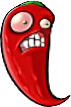
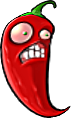
+Added Screendoor Zombie +Fixed Jalapeno missing stem +Changed Lawnmowers to only spawn offscreen

diff --git a/src/Zombies/Zombie.cpp b/src/Zombies/Zombie.cpp
@@ -110,6 +110,26 @@ void Zombie::createZombie(float x, float y, Type type, int row) {
     zombie->reAnimator.child->playAnimation("main");
     //zombie->reAnimator.animSpeedMulti = 1.8f;
     break;
+  case Zombie::Type::Screendoor:
+    zombie = new Zombie({ x, y }, ReAnimator::getDefinition(REANIM_ZOMBIE_BASIC), row);
+    zombie->reAnimator.setTrackVisibility("anim_cone", false);
+    zombie->reAnimator.setTrackVisibility("anim_bucket", false);
+    //zombie->reAnimator.setTrackVisibility("anim_screendoor", false);
+    //zombie->reAnimator.setTrackVisibility("Zombie_innerarm_screendoor_hand", false);
+    //zombie->reAnimator.setTrackVisibility("Zombie_innerarm_screendoor", false);
+    //zombie->reAnimator.setTrackVisibility("Zombie_outerarm_screendoor", false);
+    zombie->reAnimator.setTrackVisibility("Zombie_duckytube", false);
+    zombie->reAnimator.setTrackVisibility("Zombie_flaghand", false);
+    zombie->reAnimator.setTrackVisibility("Zombie_mustache", false);
+    zombie->reAnimator.setTrackVisibility("anim_tongue", false);
+    zombie->reAnimator.setTrackVisibility("Zombie_outerarm_upper", false);
+    zombie->reAnimator.setTrackVisibility("Zombie_outerarm_lower", false);
+    zombie->reAnimator.setTrackVisibility("Zombie_outerarm_hand", false);
+    zombie->reAnimator.setTrackVisibility("anim_innerarm3", false);
+    zombie->reAnimator.setTrackVisibility("anim_innerarm2", false);
+    zombie->reAnimator.setTrackVisibility("anim_innerarm1", false);
+    zombie->reAnimator.playAnimation("anim_walk", LoopType::Loop);
+    break;
   }
   
   zombie->reAnimator.animSpeedMulti = speeds[type];
@@ -211,7 +231,7 @@ bool Zombie::update(float dt) {
 //effects: 0 -> normal, 1 -> freeze, 2 -> explosion/fire , 3 -> mowed
 void Zombie::takeDamage(float damage, int effect) { // todo: change effect into enum
     health -= damage;
-    if (effect == 1) {
+    if (effect == 1 && !(type == Zombie::Type::Screendoor && health >= healths[type] * 0.2f)) {
       freezeTimer = FreezeTimer;
     }
     if(health <= 0) {
@@ -234,6 +254,9 @@ void Zombie::takeDamage(float damage, int effect) { // todo: change effect into 
       else if (type == Zombie::Type::Buckethead)
         reAnimator.trackInstances[41].imageOverride
         = ReAnimator::getDefinition(REANIM_ZOMBIE_BASIC)->textureMap["IMAGE_REANIM_ZOMBIE_BUCKET2"];
+      else if (type == Zombie::Type::Screendoor)
+        reAnimator.trackInstances[32].imageOverride
+        = ReAnimator::getDefinition(REANIM_ZOMBIE_BASIC)->textureMap["IMAGE_REANIM_ZOMBIE_SCREENDOOR2"];
     }
     else if (health < healths[type]*0.5f && health >= healths[type]*0.2f) {
       if (type == Zombie::Type::Conehead)
@@ -242,6 +265,9 @@ void Zombie::takeDamage(float damage, int effect) { // todo: change effect into 
       else if (type == Zombie::Type::Buckethead)
         reAnimator.trackInstances[41].imageOverride
         = ReAnimator::getDefinition(REANIM_ZOMBIE_BASIC)->textureMap["IMAGE_REANIM_ZOMBIE_BUCKET3"];
+      else if (type == Zombie::Type::Screendoor)
+        reAnimator.trackInstances[32].imageOverride
+        = ReAnimator::getDefinition(REANIM_ZOMBIE_BASIC)->textureMap["IMAGE_REANIM_ZOMBIE_SCREENDOOR3"];
     }
     else if (health < healths[type]*0.2f) {
       if (type == Zombie::Type::Conehead)
@@ -250,6 +276,18 @@ void Zombie::takeDamage(float damage, int effect) { // todo: change effect into 
         reAnimator.setTrackVisibility("anim_bucket", false);
       else if (type == Zombie::Type::Flag)
         reAnimator.child->stopAnimation("main"); // temporary
+      else if (type == Zombie::Type::Screendoor) {
+        reAnimator.setTrackVisibility("Zombie_outerarm_upper", true);
+        reAnimator.setTrackVisibility("Zombie_outerarm_lower", true);
+        reAnimator.setTrackVisibility("Zombie_outerarm_hand", true);
+        reAnimator.setTrackVisibility("anim_innerarm3", true);
+        reAnimator.setTrackVisibility("anim_innerarm2", true);
+        reAnimator.setTrackVisibility("anim_innerarm1", true);
+        reAnimator.setTrackVisibility("anim_screendoor", false);
+        reAnimator.setTrackVisibility("Zombie_innerarm_screendoor_hand", false);
+        reAnimator.setTrackVisibility("Zombie_innerarm_screendoor", false);
+        reAnimator.setTrackVisibility("Zombie_outerarm_screendoor", false);
+      }
     }
 
     //if(damage) freezeTimer = FreezeTimer;

diff --git a/src/ReAnimation/ReAnimation.cpp b/src/ReAnimation/ReAnimation.cpp
@@ -937,6 +937,8 @@ void initReAnimDefs() {
       { "IMAGE_REANIM_ZOMBIE_TONGUE",                   "assets/Zombies/Basic/Zombie_tongue.png" },
       { "IMAGE_REANIM_ZOMBIE_MUSTACHE1",                "assets/Zombies/Basic/Zombie_mustache1.png" },
       { "IMAGE_REANIM_ZOMBIE_SCREENDOOR1",              "assets/Zombies/Basic/Zombie_screendoor1.png" },
+      { "IMAGE_REANIM_ZOMBIE_SCREENDOOR2",              "assets/Zombies/Basic/Zombie_screendoor2.png" },
+      { "IMAGE_REANIM_ZOMBIE_SCREENDOOR3",              "assets/Zombies/Basic/Zombie_screendoor3.png" },
       { "IMAGE_REANIM_ZOMBIE_INNERARM_SCREENDOOR_HAND", "assets/Zombies/Basic/Zombie_innerarm_screendoor_hand.png" },
       { "IMAGE_REANIM_ZOMBIE_OUTERARM_SCREENDOOR",      "assets/Zombies/Basic/Zombie_outerarm_screendoor.png" },
       { "IMAGE_REANIM_ZOMBIE_OUTERARM_HAND",            "assets/Zombies/Basic/Zombie_outerarm_hand.png" },

diff --git a/include/Zombies/Zombie.hpp b/include/Zombies/Zombie.hpp
@@ -10,14 +10,14 @@ struct Zombie {
 
     static constexpr int numberOfTypes = 5;
 
-    static constexpr float speeds[] = {1.0, 1.0, 1.0, 1.2}; // not used ?
-    static constexpr float healths[] = {270, 370, 1100, 270 };
-    static constexpr float strengths[] = { 36, 36, 36, 36 };
+    static constexpr float speeds[] = { 1.0, 1.0, 1.0, 1.2, 1.0 };
+    static constexpr float healths[] = { 270, 370, 1100, 270, 1290 };
+    static constexpr float strengths[] = { 36, 36, 36, 36, 36 };
 
     static constexpr float AttackTimer = 0.33f;
     static constexpr float FreezeTimer = 10.0f; // time the zombie stays frozen
 
-    enum Type {Regular, Conehead, Buckethead, Flag, Newspaper};
+    enum Type {Regular, Conehead, Buckethead, Flag, Screendoor};
     enum State {Walking, Attacking, Dying};
 
     // For simple assets access

diff --git a/src/BackgroundManager.cpp b/src/BackgroundManager.cpp
@@ -3,7 +3,7 @@
 #include <iostream>
 #include <SFML/Audio.hpp>
 #include <Window.hpp>
-
+#include <LawnMower.hpp>
 
 LevelManager dayLevel;
 
@@ -308,6 +308,7 @@ void LevelManager::draw(sf::RenderWindow& window) {
 
   window.setView(camera);
 
+
   if (backGroundSprite) window.draw(*backGroundSprite);
 
 
@@ -332,6 +333,11 @@ void LevelManager::draw(sf::RenderWindow& window) {
       window.draw(*capSprites[i]);
     }
   }
+
+  //std::cout << "timer: " << introTimer << "\n";
+  if (introTimer > 2.5)
+    LawnMower::drawAll();
+
   window.setView(window.getDefaultView());
 }
 

diff --git a/src/Game.cpp b/src/Game.cpp
@@ -90,6 +90,10 @@ void updateGame() {
         grid[3][8].rectangle.getGlobalBounds().getCenter().x + 300,
         grid[3][8].rectangle.getGlobalBounds().getCenter().y,
         Zombie::Type::Flag, 3);
+      Zombie::createZombie(
+        grid[4][8].rectangle.getGlobalBounds().getCenter().x + 300,
+        grid[4][8].rectangle.getGlobalBounds().getCenter().y,
+        Zombie::Type::Screendoor, 4);
 
 
       runOnce = false;
@@ -154,7 +158,6 @@ void updateGame() {
     Bullet::drawAll();
 
 
-    LawnMower::drawAll();
     Zombie::updateAll(dt);
     Zombie::drawAll();
 

diff --git a/src/LawnMower.cpp b/src/LawnMower.cpp
@@ -1,4 +1,5 @@
 #include <LawnMower.hpp>
+#include <BackgroundManager.hpp>
 
 
 Array<LawnMower> LawnMower::lawnMowers;
@@ -50,7 +51,7 @@ void LawnMower::drawAll() {
     if(!lawnMowers[i].remove)
       lawnMowers[i].reAnimator.draw();
   }
-  window->setView(*view);
+  window->setView(dayLevel.camera);
 }
 
 
